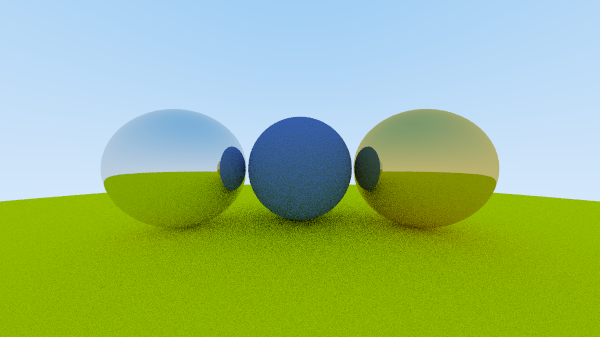
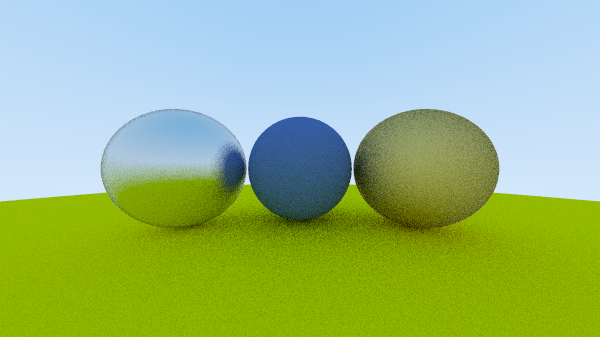
Add fuzziness to metal material

Changed region(s): [[0.15, 0.3264, 0.84, 0.7418]]

diff --git a/elktracer_core/src/material/metal.rs b/elktracer_core/src/material/metal.rs
@@ -7,11 +7,17 @@ use super::Material;
 
 pub struct MetalMaterial {
     albedo: Color,
+    fuzziness: f64,
+    random: rand::rngs::ThreadRng,
 }
 
 impl MetalMaterial {
-    pub fn new(albedo: Color) -> Self {
-        Self { albedo }
+    pub fn new(albedo: Color, fuzziness: f64) -> Self {
+        Self {
+            albedo,
+            fuzziness: f64::clamp(fuzziness, 0.0, 1.0),
+            random: rand::rng(),
+        }
     }
 }
 
@@ -22,7 +28,15 @@ impl Material for MetalMaterial {
         hit_point: Vec3f,
         hit_normal: Vec3f,
     ) -> Option<(crate::math::ray::Ray, crate::color::Color)> {
-        let reflected = ray.direction().reflect(hit_normal);
-        Some((Ray::new(hit_point, reflected), self.albedo))
+        let reflected = ray.direction().reflect(hit_normal).unit()
+            + (Vec3f::random_unit(&mut self.random) * self.fuzziness);
+
+        let scattered = Ray::new(hit_point, reflected); //(Ray::new(hit_point, new_r), self.albedo);
+
+        if scattered.direction().dot(hit_normal) > 0.0 {
+            Some((scattered, self.albedo))
+        } else {
+            None
+        }
     }
 }

diff --git a/elktracer_cli/src/main.rs b/elktracer_cli/src/main.rs
@@ -27,8 +27,8 @@ fn main() {
 
     let material_ground = LambertMaterial::new(Color::new(0.8, 0.8, 0.0));
     let material_center = LambertMaterial::new(Color::new(0.1, 0.2, 0.5));
-    let material_left = MetalMaterial::new(Color::new(0.8, 0.8, 0.8));
-    let material_right = MetalMaterial::new(Color::new(0.8, 0.6, 0.2));
+    let material_left = MetalMaterial::new(Color::new(0.8, 0.8, 0.8), 0.3);
+    let material_right = MetalMaterial::new(Color::new(0.8, 0.6, 0.2), 1.0);
 
     raytracer.add_scene_object(Sphere::new(
         Vec3f::new(0.0, -100.5, -1.0),
